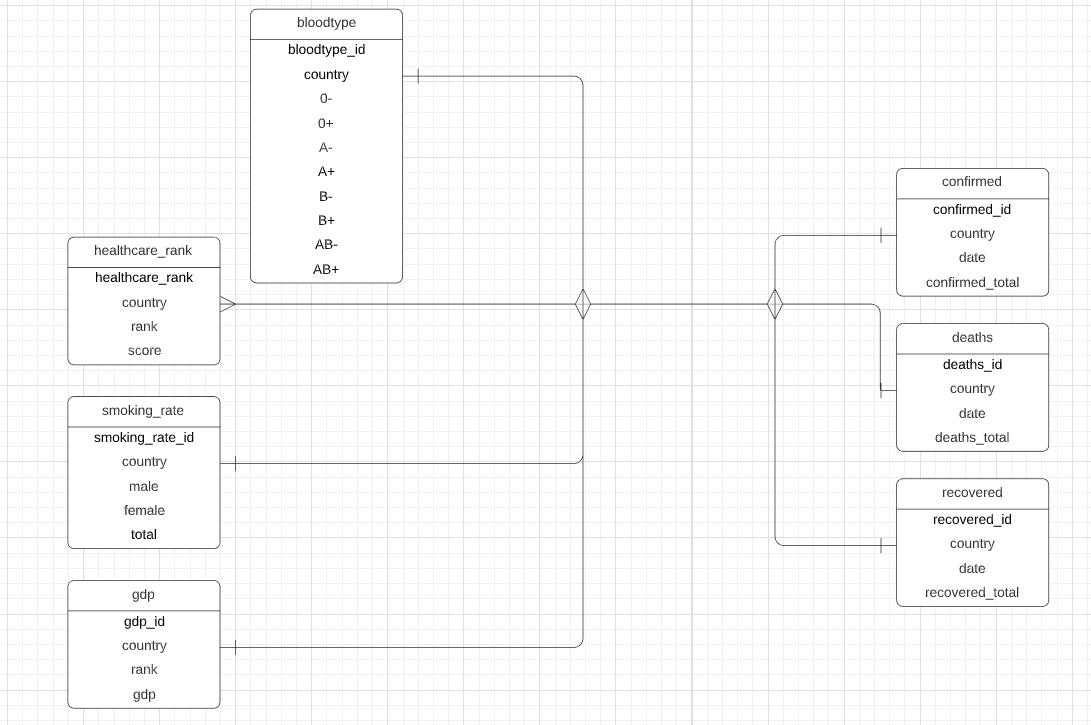
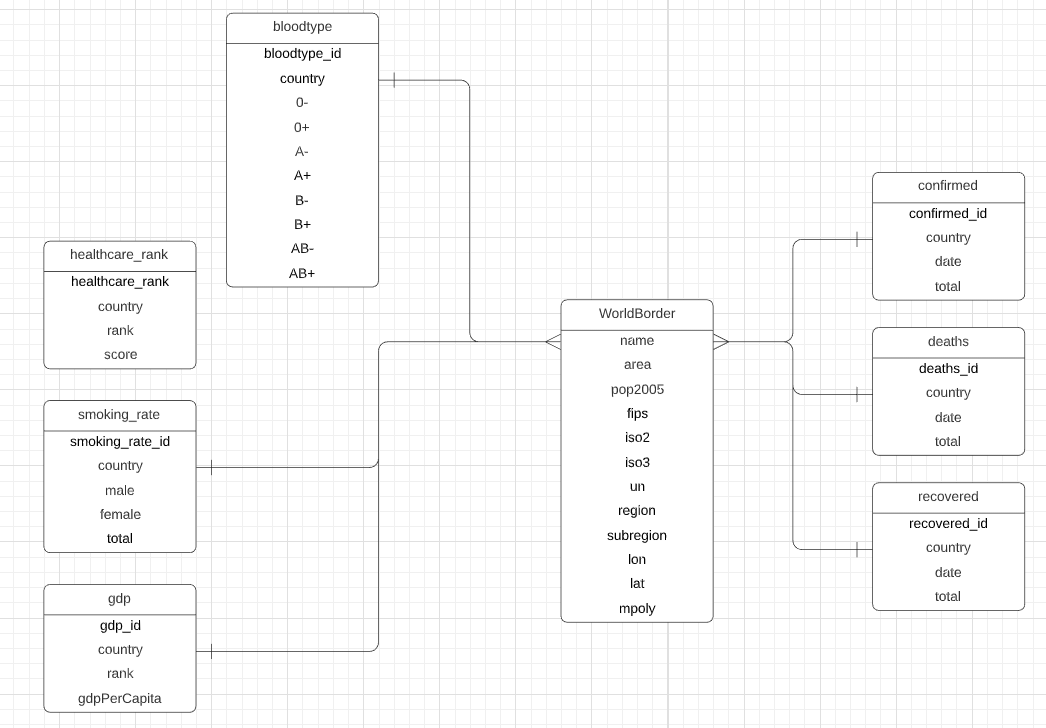
update of database schema

diff --git a/README.md b/README.md
@@ -12,7 +12,7 @@ Interaction allows for:
 - filtering countries 
 
 ## Database Schema
-<img src="https://scontent-waw1-1.xx.fbcdn.net/v/t1.15752-9/119457185_2672237346370248_6569214418422671906_n.png?_nc_cat=109&_nc_sid=b96e70&_nc_ohc=Fa5tvGT6P2sAX9_nw3x&_nc_ht=scontent-waw1-1.xx&oh=67ab19b6129547230b0d0c85ba3213af&oe=5F839647" position:center width="800" height="600">
+<img src="https://scontent-waw1-1.xx.fbcdn.net/v/t1.15752-9/119089960_789328245155282_2305347574397524466_n.png?_nc_cat=111&_nc_sid=b96e70&_nc_ohc=yX4SdTG05iYAX8qQooN&_nc_ht=scontent-waw1-1.xx&oh=ebfaf96f1717415aa87a049903750ff1&oe=5F8317E2" position:center width="800" height="600">
 
 ## Project Requirements
 
